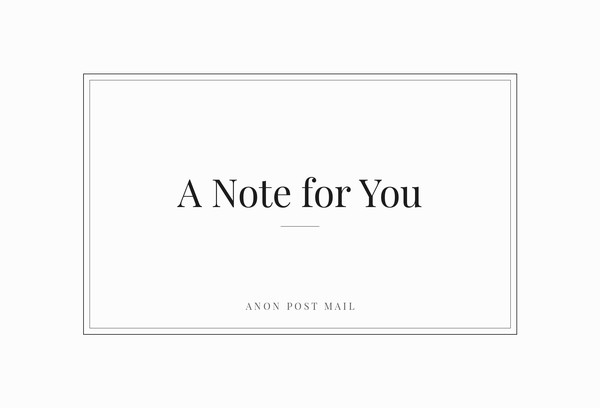
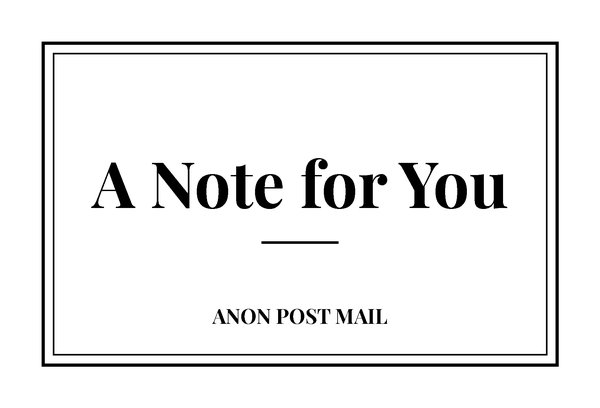
ANON POST MAIL: bold readable fronts + preview dialog

Changed region(s): [[0.12, 0.1765, 0.87, 0.8235], [0.06, 0.0882, 0.93, 0.9118], [0.42, 0.5882, 0.57, 0.6176]]

diff --git a/anon-post-mail/index.html b/anon-post-mail/index.html
@@ -103,6 +103,14 @@ img{max-width:100%;height:auto}
 #err{color:#8a0000}
 .faq h3{font-size:24px;font-weight:700;color:#111;margin:32px 0 8px;line-height:1.3}
 .faq h3+p{font-size:20px;color:#222;line-height:1.6;margin:0 0 8px}
+dialog#pv{width:min(92vw,760px);max-height:92vh;overflow:auto;background:#fff;color:#111;border:3px solid #111;border-radius:4px;padding:24px}
+dialog#pv::backdrop{background:rgba(0,0,0,.75)}
+dialog#pv h2{margin:0 0 12px;font-size:28px;text-align:left}
+.pvl{font-size:18px;font-weight:700;margin:16px 0 8px}
+#pvi{width:100%;height:auto;display:block;border:2px solid #111}
+.back{aspect-ratio:3/2;border:2px solid #111;background:#fff;display:flex;align-items:center;justify-content:center;padding:24px}
+#pvm{margin:0;font-size:clamp(22px,4.5vw,34px);font-weight:700;line-height:1.35;color:#111;text-align:center;overflow-wrap:anywhere;white-space:pre-wrap}
+#pvx{margin-top:20px}
 </style><script type="application/ld+json">
 [
   {
@@ -306,4 +314,22 @@ img{max-width:100%;height:auto}
 <h3>Can I track my postcard?</h3><p>No. Tracking is not available.</p>
 <h3>Is my payment secure?</h3><p>Payment is handled by Stripe.</p>
 </section>
+<dialog id="pv" aria-labelledby="pvt">
+<h2 id="pvt">Postcard preview</h2>
+<p class="pvl">Front</p>
+<img id="pvi" src="fronts/full/01-greetings-from.jpg" alt="Front of the Greetings From card" width="1875" height="1275">
+<p class="pvl">Back</p>
+<div class="back"><p id="pvm">just wanted to say i love you.</p></div>
+<button type="button" id="pvx">Close preview</button>
+</dialog>
+<script>
+(function(){var d=document.getElementById('pv'),im=document.getElementById('pvi'),m=document.getElementById('pvm'),msg=document.getElementById('msg'),last=null;
+function open(r){var t=r.closest('.tile'),i=t.querySelector('img'),n=t.querySelector('span').textContent;last=r;r.checked=true;im.src=i.src.replace('/previews/','/full/');im.alt='Front of the '+n+' card';var v=msg.value.trim();m.textContent=v?msg.value:'just wanted to say i love you.';d.showModal();document.getElementById('pvx').focus();}
+document.querySelectorAll('.tile').forEach(function(t){var r=t.querySelector('input');t.addEventListener('click',function(e){if(e.detail>0){e.preventDefault();open(r);}});r.addEventListener('keydown',function(e){if(e.key==='Enter'){e.preventDefault();open(r);}});});
+document.getElementById('pvx').addEventListener('click',function(){d.close();});
+d.addEventListener('close',function(){if(last)last.focus();});
+d.addEventListener('click',function(e){if(e.target===d)d.close();});
+d.addEventListener('keydown',function(e){if(e.key==='Tab'){e.preventDefault();document.getElementById('pvx').focus();}});
+})();
+</script>
 </main></body></html>
